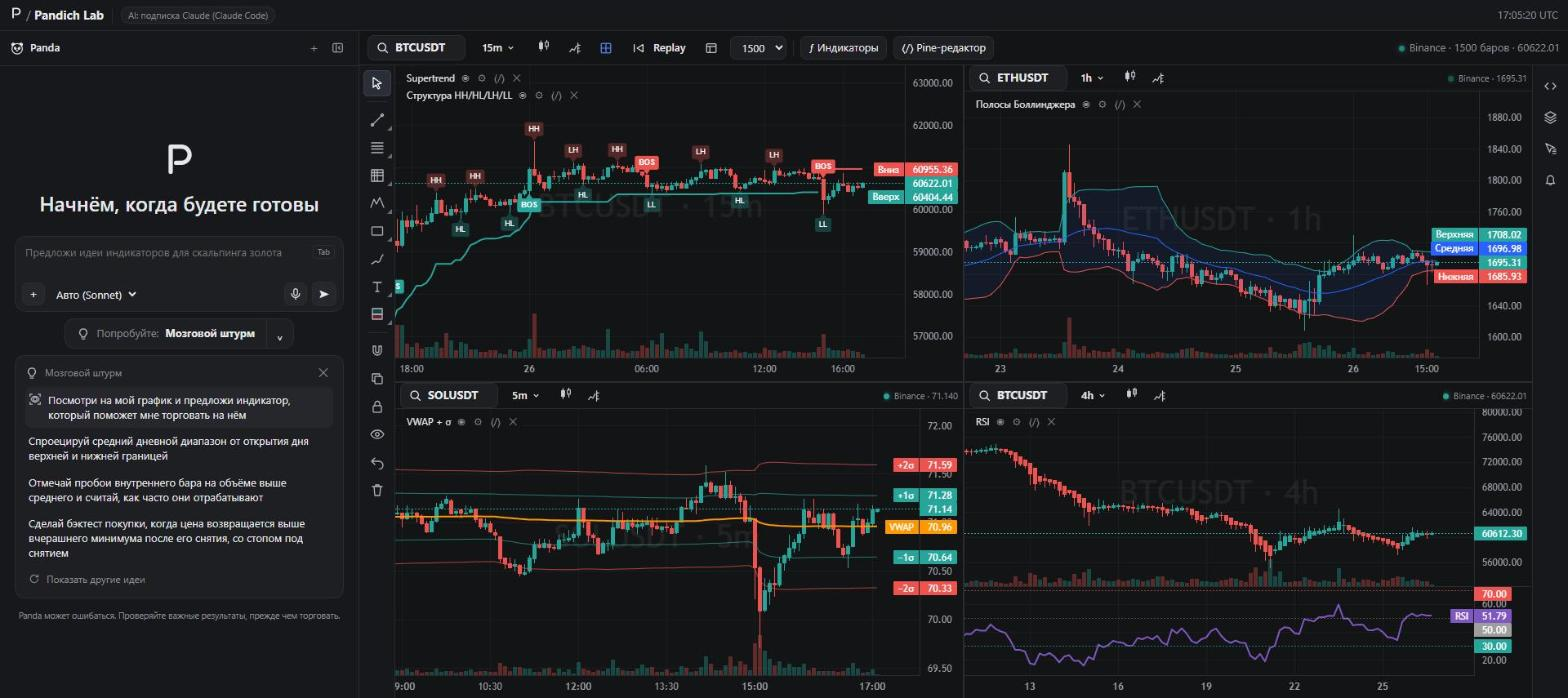
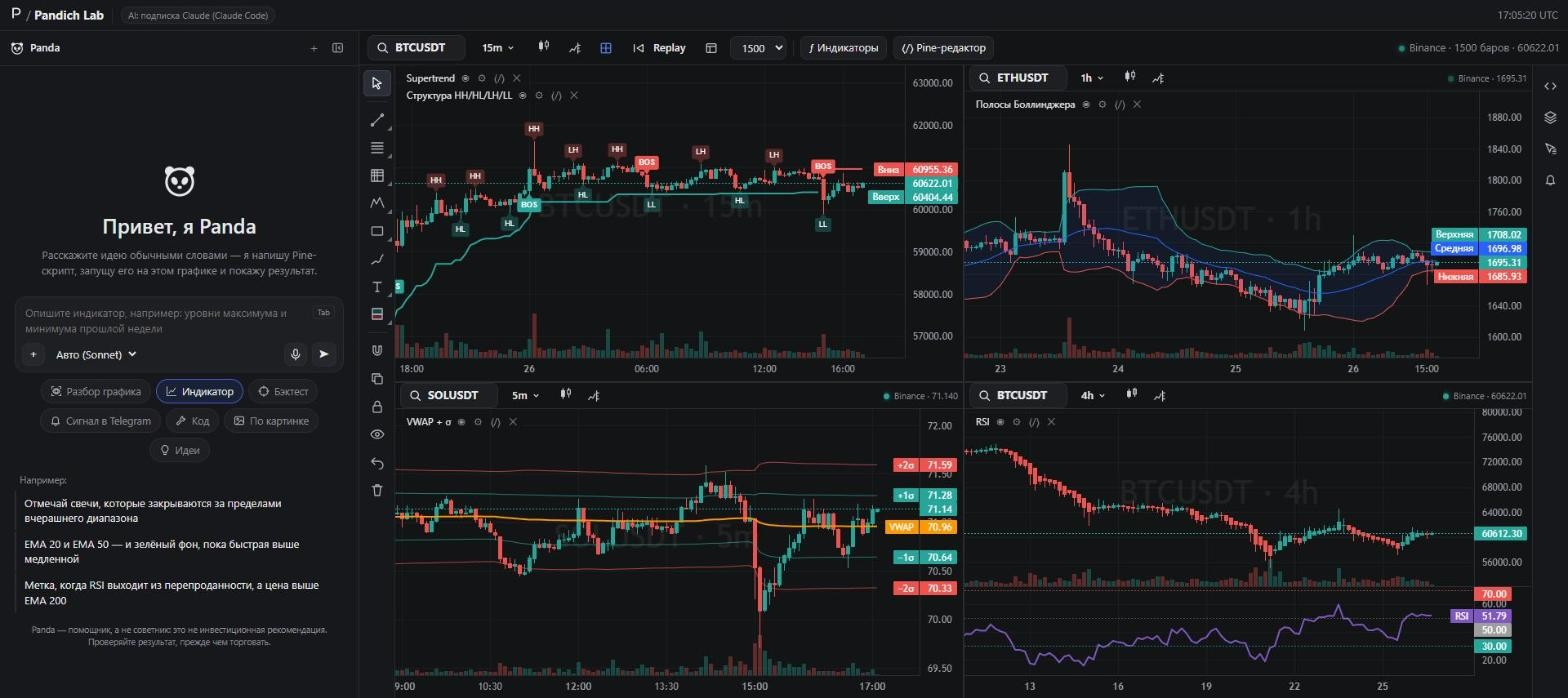
Own Panda start screen: task chips and examples
- new start screen: greeting, task chips (chart review, indicator, backtest, Telegram signal, code, from image, ideas) and short example lists written for gold / crypto traders
- new task keys on the server with matching agent hints (backtest asks for an honest robustness check, signal explains Watch)
- disclaimer: assistant, not an adviser — not investment advice
- README hero screenshot updated

Claude-Session: https://claude.ai/code/session_01KeT52PZX7E7ZyA4bLzfQxy

Changed region(s): [[0.0, 0.2106, 0.2188, 0.9327], [0.1875, 0.4814, 0.2188, 0.5115]]

diff --git a/public/app.js b/public/app.js
@@ -664,6 +664,7 @@ $('barsSel').onchange = e => { S.limit = +e.target.value; store.set(K('ql.limit'
 // ───────── chat ─────────
 const msgs = $('messages');
 const PI = { // panel icons (18×18)
+  bell: '<svg viewBox="0 0 18 18" width="16" height="16" fill="none" stroke="currentColor" stroke-width="1.4" stroke-linecap="round" stroke-linejoin="round"><path d="M4.5 12.5V8a4.5 4.5 0 019 0v4.5l1.2 1.5H3.3z"/><path d="M7.3 15.5a1.8 1.8 0 003.4 0"/></svg>',
   chart: '<svg viewBox="0 0 18 18" width="16" height="16" fill="none" stroke="currentColor" stroke-width="1.4" stroke-linecap="round" stroke-linejoin="round"><path d="M2 5V2h3M13 2h3v3M16 13v3h-3M5 16H2v-3"/><circle cx="9" cy="9" r="2.5"/><path d="M3.5 9S5.5 5 9 5s5.5 4 5.5 4-2 4-5.5 4-5.5-4-5.5-4z"/></svg>',
   indicator: '<svg viewBox="0 0 18 18" width="16" height="16" fill="none" stroke="currentColor" stroke-width="1.4" stroke-linecap="round" stroke-linejoin="round"><path d="M2 2v14h14"/><path d="M5 12l3-4 3 2 4-6"/></svg>',
   strategy: '<svg viewBox="0 0 18 18" width="16" height="16" fill="none" stroke="currentColor" stroke-width="1.4" stroke-linecap="round"><circle cx="9" cy="9" r="6.5"/><path d="M9 1v3.5M9 13.5V17M1 9h3.5M13.5 9H17"/></svg>',
@@ -674,56 +675,59 @@ const PI = { // panel icons (18×18)
   code: '<svg viewBox="0 0 18 18" width="16" height="16" fill="none" stroke="currentColor" stroke-width="1.4" stroke-linecap="round" stroke-linejoin="round"><path d="M6 5L2 9l4 4M12 5l4 4-4 4"/></svg>',
   refresh: '<svg viewBox="0 0 18 18" width="14" height="14" fill="none" stroke="currentColor" stroke-width="1.4" stroke-linecap="round" stroke-linejoin="round"><path d="M15 9a6 6 0 11-1.8-4.3M15 2.5v3.5h-3.5"/></svg>',
 };
-const BRAIN_POOL = [
-  'Спроецируй средний дневной диапазон от открытия дня верхней и нижней границей',
-  'Отмечай пробои внутреннего бара на объёме выше среднего и считай, как часто они отрабатывают',
-  'Сделай бэктест покупки, когда цена возвращается выше вчерашнего минимума после его снятия, со стопом под снятием',
-  'Покажи, в какие часы суток (UTC) у этого инструмента самый большой средний диапазон',
-  'Отмечай свечи-поглощения у локальных экстремумов и статистику следующих 5 баров',
-  'Построй уровни открытия азиатской, лондонской и нью-йоркской сессий',
-  'Сделай индикатор режима рынка: тренд / флэт по ADX и наклону EMA 200',
-  'Протестируй пробой диапазона первых 30 минут Лондона с целью 1.5R',
-  'Подсвечивай бары, где диапазон больше 2 ATR, и что происходит после них',
-  'Отмечай снятие ликвидности над максимумом прошлого дня с возвратом в диапазон',
-  'Посчитай, как часто цена закрывает гэп выходных в течение недели',
-  'Сделай мультитаймфреймовую панель тренда (15м/1ч/4ч/1д) в углу графика',
+// ── Panda start screen: task chips + examples (our own set, tuned for gold / crypto traders)
+const IDEAS = [
+  'Средний дневной ход: докуда цена обычно доходит от открытия дня',
+  'Гистограмма волатильности по часам UTC: когда рынок двигается сильнее всего',
+  'Как часто снимают максимум прошлого дня и возвращаются обратно — со статистикой',
+  'Панель тренда по четырём таймфреймам в углу графика',
+  'Уровни открытия Азии, Лондона и Нью-Йорка на каждый день',
+  'Фильтр «тренд или боковик», который можно добавить к любой стратегии',
+  'Свечи больше 2 ATR и что цена делает после них',
+  'Как часто в крипте закрывается гэп понедельника',
+  'Пробой первого часа Лондона — с честной статистикой без подгонки',
+  'Поглощения у локальных экстремумов и результат через 5 баров',
+  'Внутренний бар с объёмом выше среднего: стоит ли это торговать',
+  'Отклонение цены от VWAP в ATR — где рынок перегрет',
 ];
-const MODES = {
-  chart: { name: 'Мой график', snap: true, items: [
-    'Посмотри на мой график и скажи, какой сейчас тренд, где ключевые уровни и где разворачивается моментум',
-    'Найди на моём графике уровни, на которые цена постоянно реагирует, и нарисуй их',
-    'Разбери этот рынок на 4-часовом, часовом и 15-минутном таймфреймах и сведи общую картину',
-    'Переключись на дневной график, посмотри последние шесть месяцев и опиши общую картину'],
-    ph: ['Посмотри на мой график и скажи, где ближайшая поддержка', 'Нарисуй зоны спроса и предложения на моём графике', 'Есть ли сейчас сетап для входа?'] },
-  indicator: { name: 'Индикатор', items: [
-    'Отметь структуру рынка: повышающиеся максимумы, понижающиеся минимумы и каждый слом структуры',
-    'Выдели обычные и скрытые дивергенции RSI с меткой на каждом пивоте',
-    'Показывай сжатие волатильности, когда полосы Боллинджера уходят внутрь каналов Кельтнера',
-    'Нарисуй разрывы справедливой стоимости и убирай каждый, как только цена его заполнит'],
-    ph: ['Создай индикатор, который отмечает зоны спроса и предложения', 'Создай индикатор, который строит максимум, минимум и середину предыдущего дня', 'Создай индикатор VWAP с полосами стандартного отклонения'] },
-  strategy: { name: 'Стратегия', items: [
-    'Сделай бэктест пересечения EMA 20/50 со стопом по ATR и целью 2R',
-    'Создай стратегию, которая покупает, когда RSI опускается ниже 30, но только пока цена выше EMA 200',
-    'Торгуй пробои последнего свинг-максимума с трейлинг-стопом под предыдущим свинг-минимумом',
-    'Преврати пробой из сжатия Боллинджера в стратегию с трейлинг-стопом'],
-    ph: ['Сделай бэктест пробоя азиатской сессии с целью 2R', 'Создай стратегию на откат к EMA 50 в тренде'] },
-  fix: { name: 'Исправить мой код', prefix: true, items: [
-    'Исправь этот Pine Script®, чтобы он компилировался:',
-    'Конвертируй этот скрипт в Pine Script® v6:',
-    'Проверь этот скрипт на перерисовку и исправь её:',
-    'Объясни, что делает этот Pine Script®:'],
-    ph: ['Вставь код Pine Script и напиши, что с ним сделать'] },
-  screenshot: { name: 'По скриншоту', needImage: true, items: [
-    'Повтори индикатор со скриншота как можно точнее',
-    'Определи, что за индикатор на скриншоте, и объясни его логику',
-    'Сделай стратегию по сетапу, показанному на скриншоте'],
-    ph: ['Приложи скриншот (＋ или Ctrl+V) и опиши, что повторить'] },
-  brainstorm: { name: 'Мозговой штурм', brain: true, items: [],
-    ph: ['Предложи идеи индикаторов для скальпинга золота', 'Какие сетапы чаще всего отрабатывают на этом инструменте?'] },
+const TASKS = {
+  look: { name: 'Разбор графика', icon: 'chart', snap: true, ex: [
+    'Где сейчас ближайшие поддержка и сопротивление? Нарисуй их',
+    'Какой тренд на H4, H1 и M15 и совпадают ли они между собой?',
+    'Что цена делала за последнюю неделю и где был самый сильный импульс?'],
+    ph: ['Например: где ближайшая сильная поддержка?', 'Например: нарисуй зоны, от которых цена отскакивала чаще всего'] },
+  build: { name: 'Индикатор', icon: 'indicator', ex: [
+    'Отмечай свечи, которые закрываются за пределами вчерашнего диапазона',
+    'EMA 20 и EMA 50 — и зелёный фон, пока быстрая выше медленной',
+    'Метка, когда RSI выходит из перепроданности, а цена выше EMA 200'],
+    ph: ['Опишите индикатор, например: уровни максимума и минимума прошлой недели', 'Например: подсвечивай свечи с объёмом в 2 раза выше среднего'] },
+  test: { name: 'Бэктест', icon: 'strategy', ex: [
+    'Проверь на истории: покупка при возврате выше EMA 50, стоп 1 ATR, цель 2R',
+    'В какую сессию пробой утреннего диапазона даёт лучший результат?',
+    'Оцени честно: не подогнана ли эта стратегия под историю?'],
+    ph: ['Опишите правила входа и выхода — проверю их на истории', 'Например: продажа от максимума Азии со стопом 1.5 ATR'] },
+  alert: { name: 'Сигнал в Telegram', icon: 'bell', ex: [
+    'Сигнал, когда цена закрывается выше максимума прошлого дня',
+    'Сообщай, когда RSI на H1 опускается ниже 25',
+    'Пересечение EMA 9 и EMA 21, но только в лондонскую сессию'],
+    ph: ['Опишите условие сигнала — сделаю alert и подскажу, как включить Watch', 'Например: цена коснулась EMA 200 на H1'] },
+  code: { name: 'Код', icon: 'fix', prefix: true, ex: [
+    'Найди и исправь ошибку в этом скрипте:',
+    'Переведи этот скрипт на Pine v6:',
+    'Есть ли здесь перерисовка или заглядывание в будущее?',
+    'Объясни простыми словами, что считает этот код:'],
+    ph: ['Вставьте Pine-код и напишите, что с ним сделать'] },
+  pic: { name: 'По картинке', icon: 'screenshot', needImage: true, ex: [
+    'Собери похожий индикатор по этому скриншоту',
+    'Что за инструмент на картинке и как он, скорее всего, считается?'],
+    ph: ['Приложите картинку (＋ или Ctrl+V) и напишите, что повторить'] },
+  ideas: { name: 'Идеи', icon: 'brainstorm', ideas: true, ex: [],
+    ph: ['Например: какие инструменты помогут торговать золото внутри дня?'] },
 };
-const MODE_ORDER = ['chart', 'indicator', 'strategy', 'fix', 'screenshot', 'brainstorm'];
-let curMode = store.get('ql.mode', 'indicator'); if (!MODES[curMode]) curMode = 'indicator';
-let brainOffset = 0, phIdx = 0;
+const TASK_ORDER = ['look', 'build', 'test', 'alert', 'code', 'pic', 'ideas'];
+const LEGACY_TASK = { chart: 'look', indicator: 'build', strategy: 'test', fix: 'code', screenshot: 'pic', brainstorm: 'ideas' };
+let curTask = store.get('ql.task', 'build'); if (!TASKS[curTask]) curTask = 'build';
+let ideasOffset = 0, phIdx = 0, examplesOpen = true;
 S.attach = [];
 
 function setEmpty(empty) { $('chatPanel').classList.toggle('empty', empty); }
@@ -755,39 +759,35 @@ function addMsg(cls, html) {
 }
 function setBusy(b) { S.busy = b; $('sendBtn').disabled = b; $('stopBtn').classList.toggle('hidden', !b); }
 
-// ── modes + suggestion card
-function renderMode() {
-  const m = MODES[curMode];
-  $('modeIcon').innerHTML = PI[curMode]; $('modeName').textContent = m.name;
-  $('modeMenu').innerHTML = MODE_ORDER.map(k => `<button data-mode="${k}" class="${k === curMode ? 'on' : ''}"><span class="pi">${PI[k]}</span>${MODES[k].name}</button>`).join('');
-  $('modeMenu').querySelectorAll('button').forEach(b => b.onclick = () => { curMode = b.dataset.mode; store.set('ql.mode', curMode); $('modeMenu').classList.add('hidden'); $('suggest').classList.remove('closed'); phIdx = 0; renderMode(); });
-  const sg = $('suggest');
-  let items = m.items.map(t => ({ text: t }));
-  if (m.brain) {
-    items = [{ text: 'Посмотри на мой график и предложи индикатор, который поможет мне торговать на нём', snap: true, special: true }]
-      .concat([0, 1, 2].map(i => ({ text: BRAIN_POOL[(brainOffset + i) % BRAIN_POOL.length] })));
-  }
-  sg.innerHTML = `<div class="suggest-head"><span class="pi">${PI[curMode]}</span>${m.name}<div class="spacer"></div><button class="icon-btn" id="sgClose" title="Скрыть">✕</button></div>` +
-    items.map((it, i) => `<button class="sugg ${it.special ? 'special' : ''}" data-i="${i}">${it.special ? `<span class="pi">${PI.chart}</span>` : ''}<span>${esc(it.text)}</span></button>`).join('') +
-    (m.brain ? `<button class="sugg more" id="sgMore">${PI.refresh} Показать другие идеи</button>` : '');
-  sg.querySelectorAll('.sugg[data-i]').forEach(b => b.onclick = () => useSuggestion(items[+b.dataset.i]));
-  $('sgClose').onclick = () => sg.classList.add('closed');
-  const more = $('sgMore'); if (more) more.onclick = () => { brainOffset = (brainOffset + 3) % BRAIN_POOL.length; renderMode(); };
+// ── task chips + examples
+function renderTasks() {
+  const t = TASKS[curTask];
+  $('tasks').innerHTML = TASK_ORDER.map(k => `<button class="task ${k === curTask ? 'on' : ''}" data-task="${k}"><span class="pi">${PI[TASKS[k].icon]}</span>${TASKS[k].name}</button>`).join('');
+  $('tasks').querySelectorAll('.task').forEach(b => b.onclick = () => {
+    if (b.dataset.task === curTask) examplesOpen = !examplesOpen; else { curTask = b.dataset.task; store.set('ql.task', curTask); examplesOpen = true; phIdx = 0; }
+    renderTasks();
+  });
+  let items = t.ex.map(x => ({ text: x }));
+  if (t.ideas) items = [{ text: 'Посмотри на мой график и предложи три идеи индикатора именно под него', snap: true }]
+    .concat([0, 1, 2].map(i => ({ text: IDEAS[(ideasOffset + i) % IDEAS.length] })));
+  const ex = $('examples');
+  ex.classList.toggle('closed', !examplesOpen);
+  ex.innerHTML = `<div class="ex-h">Например:${t.ideas ? `<button class="ex-more" id="exMore" title="Другие идеи">${PI.refresh} ещё</button>` : ''}</div>` +
+    items.map((it, i) => `<button class="ex" data-i="${i}">${esc(it.text)}</button>`).join('');
+  ex.querySelectorAll('.ex[data-i]').forEach(b => b.onclick = () => useExample(items[+b.dataset.i]));
+  const more = $('exMore'); if (more) more.onclick = () => { ideasOffset = (ideasOffset + 3) % IDEAS.length; renderTasks(); };
   updatePlaceholder();
 }
-function updatePlaceholder() { const ph = MODES[curMode].ph; $('prompt').placeholder = ph[phIdx % ph.length]; }
+function updatePlaceholder() { const ph = TASKS[curTask].ph; $('prompt').placeholder = ph[phIdx % ph.length]; }
 setInterval(() => { if (!$('prompt').value && document.activeElement !== $('prompt')) { phIdx++; updatePlaceholder(); } }, 6000);
 
-async function useSuggestion(it) {
-  const m = MODES[curMode];
-  if (m.prefix) { const p = $('prompt'); p.value = it.text + '\n'; p.focus(); p.setSelectionRange(p.value.length, p.value.length); autoGrow(); return; }
-  if (m.needImage && !S.attach.some(a => a.kind === 'image')) { S.pendingText = it.text; $('fileImg').click(); return; }
-  send(it.text, { snap: !!(it.snap || m.snap) });
+async function useExample(it) {
+  const t = TASKS[curTask];
+  if (t.prefix) { const p = $('prompt'); p.value = it.text + '\n'; p.focus(); p.setSelectionRange(p.value.length, p.value.length); autoGrow(); return; }
+  if (t.needImage && !S.attach.some(a => a.kind === 'image')) { S.pendingText = it.text; $('fileImg').click(); return; }
+  send(it.text, { snap: !!(it.snap || t.snap) });
 }
-$('modeMain').onclick = () => $('suggest').classList.toggle('closed');
-$('modeCaret').onclick = e => { e.stopPropagation(); $('modeMenu').classList.toggle('hidden'); $('plusMenu').classList.add('hidden'); };
 document.addEventListener('click', e => {
-  if (!$('modeRow').contains(e.target)) $('modeMenu').classList.add('hidden');
   if (!$('composer').contains(e.target)) $('plusMenu').classList.add('hidden');
 });
 
@@ -827,7 +827,7 @@ async function addImages(files) {
   renderAttach();
   if (S.pendingText && S.attach.some(a => a.kind === 'image')) { const p = $('prompt'); p.value = S.pendingText; S.pendingText = null; p.focus(); autoGrow(); }
 }
-$('plusBtn').onclick = e => { e.stopPropagation(); $('plusMenu').classList.toggle('hidden'); $('modeMenu').classList.add('hidden'); };
+$('plusBtn').onclick = e => { e.stopPropagation(); $('plusMenu').classList.toggle('hidden'); };
 $('plusMenu').querySelectorAll('.pi[data-icon]').forEach(sp => sp.innerHTML = PI[sp.dataset.icon]);
 $('plusMenu').querySelectorAll('button').forEach(b => b.onclick = () => {
   $('plusMenu').classList.add('hidden');
@@ -889,9 +889,9 @@ async function applyAgentScript(targetRef, name, code, result) {
 async function send(text, opts = {}) {
   text = (text || '').trim();
   if ((!text && !S.attach.length) || S.busy) return;
-  if (!text) text = curMode === 'screenshot' ? 'Повтори индикатор со скриншота' : 'Посмотри на вложение';
+  if (!text) text = curTask === 'pic' ? 'Собери похожий индикатор по этой картинке' : 'Посмотри на вложение';
   const atts = S.attach.slice(); S.attach = []; renderAttach();
-  if ((opts.snap || MODES[curMode].snap) && !atts.some(a => a.chart)) { try { atts.unshift({ kind: 'image', label: `${S.symbol} ${S.interval}`, dataUrl: chartSnapshot(), chart: true }); } catch (e) { log('snapshot: ' + e.message); } }
+  if ((opts.snap || TASKS[curTask].snap) && !atts.some(a => a.chart)) { try { atts.unshift({ kind: 'image', label: `${S.symbol} ${S.interval}`, dataUrl: chartSnapshot(), chart: true }); } catch (e) { log('snapshot: ' + e.message); } }
   $('prompt').value = ''; autoGrow();
   const thumbs = atts.map(a => a.kind === 'image' ? `<img class="mthumb" src="${a.dataUrl}" title="${esc(a.label)}">` : `<span class="mfile">${PI.code} ${esc(a.name)}</span>`).join('');
   addMsg('user', (thumbs ? `<div class="matt">${thumbs}</div>` : '') + esc(text));
@@ -906,7 +906,7 @@ async function send(text, opts = {}) {
   try {
     const r = await fetch('/api/chat', {
       method: 'POST', headers: { 'content-type': 'application/json' }, signal: ctrl.signal,
-      body: JSON.stringify({ sessionId: S.sessionId, text: fullText, mode: curMode, model: $('modelSel').value, symbol: S.symbol, interval: S.interval, limit: S.limit,
+      body: JSON.stringify({ sessionId: S.sessionId, text: fullText, mode: curTask, model: $('modelSel').value, symbol: S.symbol, interval: S.interval, limit: S.limit,
         activeScript: active ? { name: active.name, code: active.code } : null,
         images: atts.filter(a => a.kind === 'image').map(a => ({ label: a.chart ? `snapshot of the user's chart ${S.symbol} ${S.interval}` : a.label, dataUrl: a.dataUrl })),
         chartState: { scripts: S.scripts.map(s => ({ name: s.name, visible: s.visible })), drawings: drawings.slice(0, 60) } }),
@@ -951,11 +951,11 @@ $('stopBtn').onclick = () => S.abort && S.abort.abort();
 $('newChatBtn').onclick = async () => {
   await api('/api/reset', { sessionId: S.sessionId });
   S.sessionId = 'sess-' + Math.random().toString(36).slice(2); store.set('ql.session', S.sessionId);
-  msgs.innerHTML = ''; setEmpty(true); $('suggest').classList.remove('closed');
+  msgs.innerHTML = ''; setEmpty(true); examplesOpen = true; renderTasks();
 };
-renderMode(); autoGrow();
+renderTasks(); autoGrow();
 window.QLChat = {
-  prefill(text, mode) { setChatCollapsed(false, { focus: false }); if (mode && MODES[mode]) { curMode = mode; store.set('ql.mode', curMode); renderMode(); } const p = $('prompt'); p.value = text; autoGrow(); p.focus(); p.setSelectionRange(p.value.length, p.value.length); },
+  prefill(text, mode) { setChatCollapsed(false, { focus: false }); const tk = LEGACY_TASK[mode] || mode; if (tk && TASKS[tk]) { curTask = tk; store.set('ql.task', curTask); renderTasks(); } const p = $('prompt'); p.value = text; autoGrow(); p.focus(); p.setSelectionRange(p.value.length, p.value.length); },
 };
 
 async function loadSymbols() {

diff --git a/public/style.css b/public/style.css
@@ -137,6 +137,8 @@ table.trades th{color:var(--muted);font-weight:500}
 .chat.empty .hero{display:flex}
 .hero-logo{font-size:40px;font-weight:800;line-height:1}
 .hero h1{font-size:25px;font-weight:500;margin:10px 0 0;text-align:center}
+.hero-sub{margin:8px 6px 0;color:var(--muted);font-size:13px;line-height:1.5;text-align:center;max-width:340px}
+.hero-panda{color:var(--text)}
 .composer{position:relative;background:var(--panel2);border:1px solid var(--line);border-radius:14px;padding:8px 8px 6px}
 .composer:focus-within{border-color:#3a3d44}
 .prompt-row{position:relative}
@@ -157,20 +159,7 @@ table.trades th{color:var(--muted);font-weight:500}
 .popmenu button:hover,.popmenu button.on{background:#2a2e39}
 .pi{display:inline-flex;align-items:center;color:#b2b5be}
 #plusMenu{left:4px;top:100%;margin-top:6px}
-.mode-row{position:relative;display:flex;justify-content:center}
-.mode-pill{display:flex;align-items:stretch;border:1px solid var(--line);border-radius:12px;background:var(--panel2);overflow:hidden}
-.mode-main{display:flex;align-items:center;gap:8px;background:none;border:none;color:var(--text);padding:8px 14px;cursor:pointer}
-.mode-main:hover,.mode-caret:hover{background:#26272c}
-.mode-caret{background:none;border:none;border-left:1px solid var(--line);color:var(--text);padding:0 12px;cursor:pointer;font-size:14px}
 #modeMenu{top:100%;right:calc(50% - 150px);margin-top:6px;width:220px}
-.suggest{border:1px solid var(--line);border-radius:12px;padding:8px 12px;background:var(--panel2)}
-.suggest.closed{display:none}
-.chat:not(.empty) .suggest{display:none}
-.suggest-head{display:flex;align-items:center;gap:8px;color:var(--muted);font-size:12px;margin-bottom:4px}
-.sugg{display:flex;align-items:flex-start;gap:8px;width:100%;text-align:left;background:none;border:none;padding:7px 4px;cursor:pointer;color:var(--text);border-radius:8px;line-height:1.4}
-.sugg:hover{background:#26272c}
-.sugg.special{background:#26272c}
-.sugg.more{color:var(--muted);font-size:12px;align-items:center}
 .matt{display:flex;flex-wrap:wrap;gap:6px;margin-bottom:6px}
 .mthumb{max-width:150px;max-height:90px;border-radius:6px;border:1px solid var(--line)}
 .mfile{display:inline-flex;align-items:center;gap:4px;font-size:12px;color:var(--muted)}
@@ -550,3 +539,18 @@ body.embed .legend{max-width:85%}
 .dset-btn{background:#26282e;border:1px solid #363940;color:#d1d4dc;border-radius:7px;padding:5px 11px;cursor:pointer;font:inherit;font-size:12.5px}
 .dset-btn:hover{background:#2e3138}.dset-btn.pri{background:#2962ff;border-color:#2962ff;color:#fff}.dset-btn.pri:hover{background:#3d73ff}
 .dset-note{font-size:11.5px}
+
+/* ───── Panda start screen: task chips + examples ───── */
+.tasks{display:flex;flex-wrap:wrap;justify-content:center;gap:6px}
+.chat:not(.empty) .tasks,.chat:not(.empty) .examples{display:none}
+.task{display:inline-flex;align-items:center;gap:6px;background:var(--panel2);border:1px solid var(--line);color:var(--muted);border-radius:16px;padding:5px 11px;font-size:12.5px;cursor:pointer}
+.task .pi svg{width:14px;height:14px}
+.task:hover{color:var(--text);border-color:#3a3d44}
+.task.on{color:var(--text);border-color:#4a5bd8;background:rgba(41,98,255,.12)}
+.examples{display:flex;flex-direction:column;gap:2px;margin-top:2px}
+.examples.closed{display:none}
+.ex-h{display:flex;align-items:center;color:var(--muted);font-size:11.5px;padding:4px 6px 2px}
+.ex-more{margin-left:auto;display:inline-flex;align-items:center;gap:4px;background:none;border:none;color:var(--muted);font-size:11.5px;cursor:pointer;padding:2px 4px;border-radius:6px}
+.ex-more:hover{color:var(--text);background:#26272c}
+.ex{text-align:left;background:none;border:none;border-left:2px solid var(--line);color:var(--text);padding:6px 10px;font-size:13px;line-height:1.4;cursor:pointer;border-radius:0 8px 8px 0}
+.ex:hover{background:#26272c;border-left-color:#4a5bd8}

diff --git a/public/index.html b/public/index.html
@@ -32,8 +32,9 @@
     <div class="chat-body" id="chatBody"><div id="messages"></div></div>
     <div class="composer-wrap" id="composerWrap">
       <div class="hero" id="hero">
-        <div class="hero-logo"><svg viewBox="0 0 20 20" width="44" height="44"><path d="M5 17V3h6a4.5 4.5 0 010 9H8" fill="none" stroke="currentColor" stroke-width="2.4" stroke-linecap="round" stroke-linejoin="round"/></svg></div>
-        <h1>Начнём, когда будете готовы</h1>
+        <div class="hero-logo"><svg class="panda-ic hero-panda" viewBox="0 0 24 24" width="46" height="46" aria-hidden="true"><circle cx="5.6" cy="6" r="3" fill="currentColor"/><circle cx="18.4" cy="6" r="3" fill="currentColor"/><circle cx="12" cy="13" r="8.4" fill="var(--panel)" stroke="currentColor" stroke-width="1.6"/><ellipse cx="8.7" cy="12.3" rx="1.9" ry="2.6" transform="rotate(-28 8.7 12.3)" fill="currentColor"/><ellipse cx="15.3" cy="12.3" rx="1.9" ry="2.6" transform="rotate(28 15.3 12.3)" fill="currentColor"/><ellipse cx="12" cy="16.4" rx="1.4" ry="1" fill="currentColor"/></svg></div>
+        <h1>Привет, я Panda</h1>
+        <p class="hero-sub">Расскажите идею обычными словами — я напишу Pine-скрипт, запущу его на этом графике и покажу результат.</p>
       </div>
       <div id="editChip" class="edit-chip hidden"></div>
       <div class="composer" id="composer">
@@ -56,15 +57,9 @@
           <button data-act="pine"><span class="pi" data-icon="code"></span>Файл Pine Script (.pine, .txt)…</button>
         </div>
       </div>
-      <div class="mode-row" id="modeRow">
-        <div class="mode-pill">
-          <button class="mode-main" id="modeMain"><span class="pi" id="modeIcon"></span><span class="muted">Попробуйте:</span> <b id="modeName"></b></button>
-          <button class="mode-caret" id="modeCaret" title="Режимы">⌄</button>
-        </div>
-        <div id="modeMenu" class="popmenu hidden"></div>
-      </div>
-      <div class="suggest" id="suggest"></div>
-      <div class="disclaimer">Panda может ошибаться. Проверяйте важные результаты, прежде чем торговать.</div>
+      <div class="tasks" id="tasks"></div>
+      <div class="examples" id="examples"></div>
+      <div class="disclaimer">Panda — помощник, а не советник: это не инвестиционная рекомендация. Проверяйте результат, прежде чем торговать.</div>
     </div>
     <input type="file" id="fileImg" accept="image/*" multiple hidden>
     <input type="file" id="filePine" accept=".pine,.txt,.pinescript" hidden>

diff --git a/public/panels.js b/public/panels.js
@@ -328,7 +328,7 @@ function askQuant() {
   let snippet = code(), what = 'этот Pine Script';
   if (E.editor) { const sel = E.editor.getSelection(); const t = sel && E.editor.getModel().getValueInRange(sel); if (t && t.trim()) { snippet = t; what = `этот фрагмент (строки ${sel.startLineNumber}–${sel.endLineNumber}) скрипта «${E.name}»`; } }
   if (E.linked) A.selectScript(E.linked);
-  window.QLChat && window.QLChat.prefill(`Посмотри ${what}: \n\`\`\`pine\n${snippet}\n\`\`\`\n`, 'fix');
+  window.QLChat && window.QLChat.prefill(`Посмотри ${what}: \n\`\`\`pine\n${snippet}\n\`\`\`\n`, 'code');
 }
 
 // Logs + strategy tester
